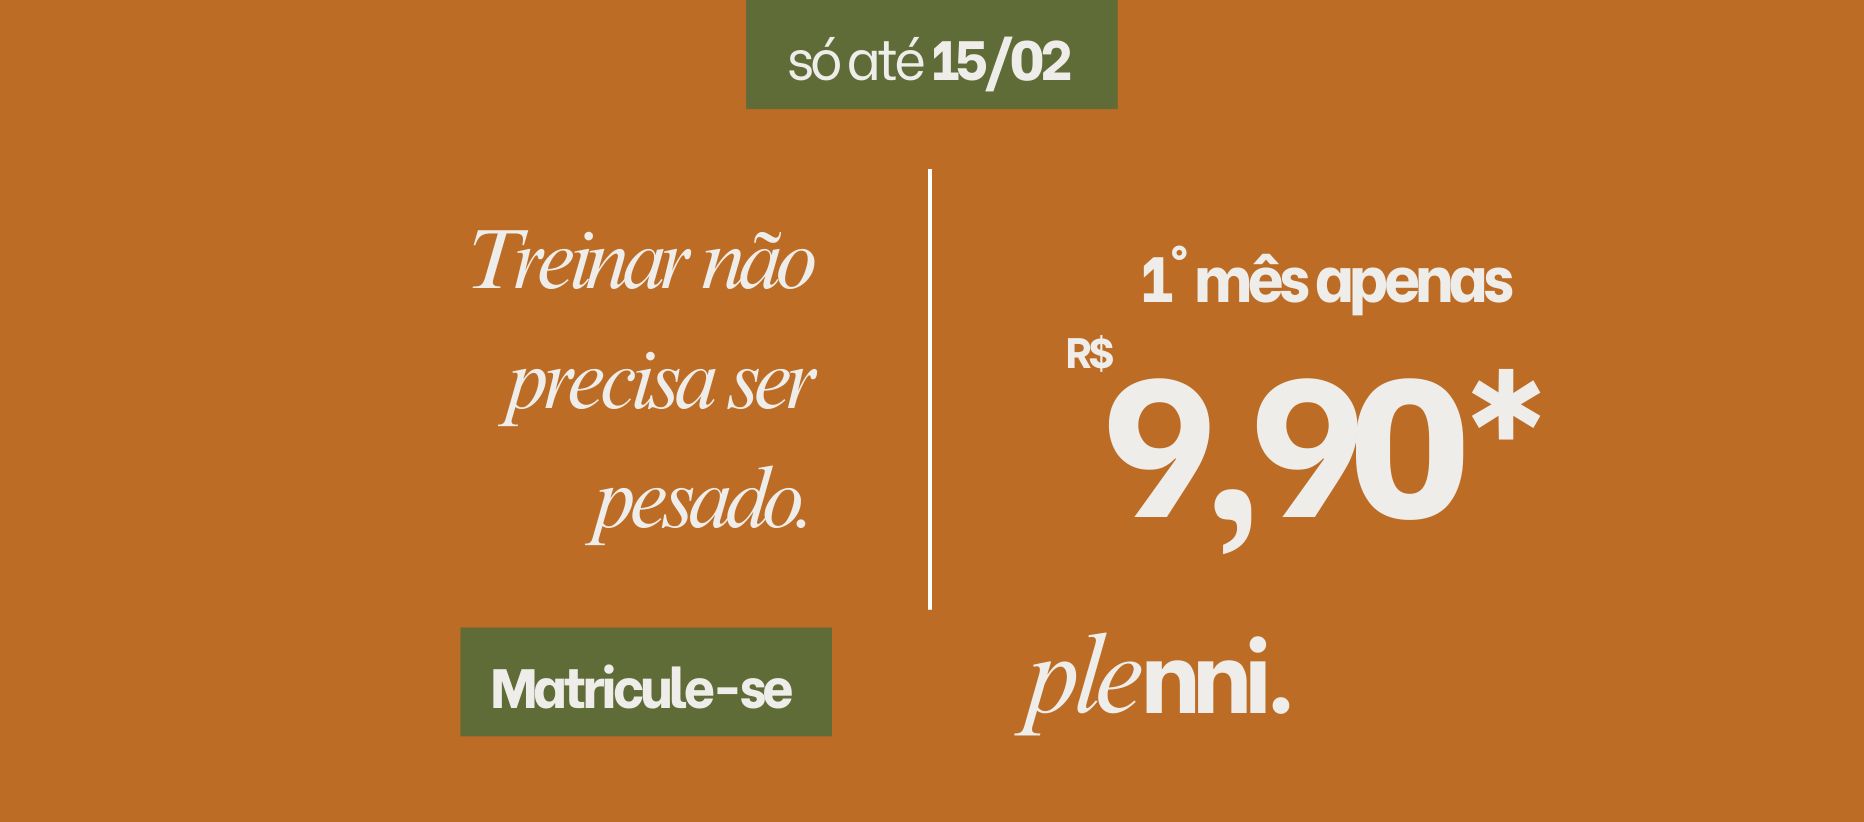
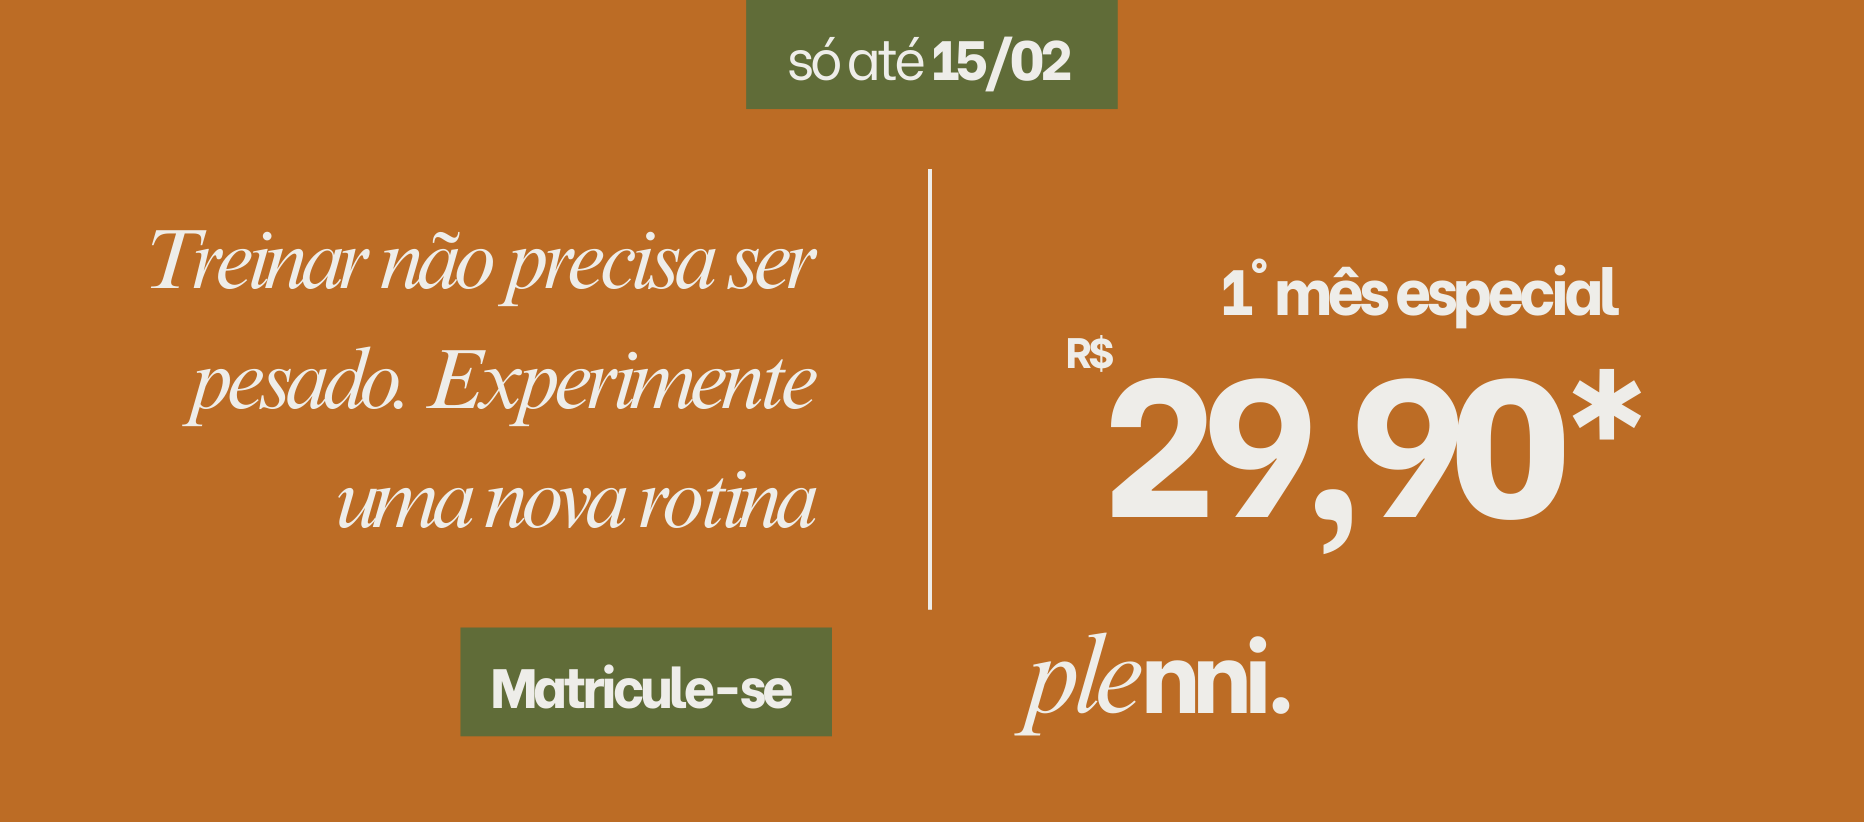
Projeto finalizado.

diff --git a/html/index.html b/html/index.html
@@ -34,8 +34,8 @@
     <!--Texto h1-->
     <div class="text">
         <h1>
-            <span class="cor1">Encontre a academia</span>
-            <span class="cor2">mais próxima!</span>
+            <span class="cor1">Descubra a academia</span>
+            <span class="cor2">ideal para você!</span>
         </h1>
     </div>
 
@@ -51,12 +51,12 @@
     <!--Texto-->
     <div class="text">
         <h1>
-            <span class="cor1">Venha treinar na</span>
-            <span class="cor2">maior rede de academias da</span>
-            <span class="cor3">América Latina</span>
+            <span class="cor1">Treine com conforto na</span>
+            <span class="cor2">Plenni, referência em</span>
+            <span class="cor3">qualidade e bem-estar</span>
         </h1>
         <p>
-            Os melhores equipamentos e infraestrutura com mensalidades acessíveis.
+            Estrutura moderna, equipamentos de ponta e planos pensados para o seu estilo de vida.
         </p>
     </div>
     
@@ -64,59 +64,60 @@
     <div class="mensalidades">
         <div class="cardp">
             <h2>Plano Black</h2>
-            <p>Treine em qualquer academia da Smart Fit, seja no Brasil ou na América Latina. São +2.000 unidades em 16 países!</p>
+            <p>Aproveite acesso completo a todas as unidades Plenni e treine onde e quando quiser.</p>
             <p>A PARTIR DE</p>
-            <p>R$ 159,90</p>
+            <p>R$ 189,90</p>
             <div class="preco">
-                <h2 class="valor">R$ 9,90*</h2>
-                <h4><span class="cor3">93% OFF</span></h4>
+                <h2 class="valor">R$ 29,90*</h2>
+                <h4><span class="cor3">84% OFF</span></h4>
             </div>
             <div class="periodo">
                 <h5><span>no 1º mês</span></h5>
-                <p>, depois R$ 159,90/mês</p>
+                <p>, depois R$ 189,90/mês</p>
             </div>
             <a href="login.html">
-                <button class="buttonp">Contratar agora</button>
+                <button class="buttonp">Começar agora</button>
             </a>
         </div>
 
         <div class="card">
             <h2>Plano Fit</h2>
-            <p>Nosso plano mais econômico para você se exercitar quando e <br>quanto quiser na academia que escolher!</p>
+            <p>Uma opção prática e econômica para você manter sua rotina de treinos com flexibilidade.</p>
             <p>A PARTIR DE</p>
-            <p>R$ 99,90</p>
+            <p>R$ 109,90</p>
             <div class="preco">
-                <h2 class="valor">R$ 9,90*</h2>
-                <h4><span class="cor4">90% OFF</span></h4>
+                <h2 class="valor">R$ 19,90*</h2>
+                <h4><span class="cor4">81% OFF</span></h4>
             </div>
             <div class="periodo">
                 <h5><span>no 1º mês</span></h5>
-                <p>, depois R$ 99,90/mês</p>
+                <p>, depois R$ 109,90/mês</p>
             </div>
             <a href="login.html">
-                <button class="buttonc">Contratar agora</button>
+                <button class="buttonc">Começar agora</button>
             </a>
         </div>
 
         <div class="card">
             <h2>Plano Smart</h2>
-            <p>Nosso plano mensal para você que não quer se comprometer, mas quer treinar em uma academia de alto padrão!</p>
+            <p>Ideal para quem busca liberdade, conforto e uma experiência completa de treino.</p>
             <p>A PARTIR DE</p>
-            <p>R$ 119,90</p>
+            <p>R$ 139,90</p>
             <div class="preco">
-                <h2 class="valor">R$ 9,90*</h2>
-                <h4><span class="cor4">91% OFF</span></h4>
+                <h2 class="valor">R$ 24,90*</h2>
+                <h4><span class="cor4">82% OFF</span></h4>
             </div>
             <div class="periodo">
                 <h5><span>no 1º mês</span></h5>
-                <p>, depois R$ 119,90/mês</p>
+                <p>, depois R$ 139,90/mês</p>
             </div>            
             <a href="login.html">
-                <button class="buttonc">Contratar agora</button>
+                <button class="buttonc">Começar agora</button>
             </a>
         </div>
     </div>
-    <p>*Os preços, taxas, itens de benefícios e condições promocionais podem variar de acordo com a academia escolhida.</p><br>
+    <p>*Valores, benefícios e condições promocionais podem variar conforme a unidade selecionada.</p><br>
+
 
     <!--Rodapé-->
     <footer>

diff --git a/css/style.css b/css/style.css
@@ -113,7 +113,7 @@ header img{
 }
 .card, .cardp {
     width: 250px;
-    height: 335px;
+    height: 320px;
     padding: 10px;
     border-radius: 8px;
     border: #283618;
